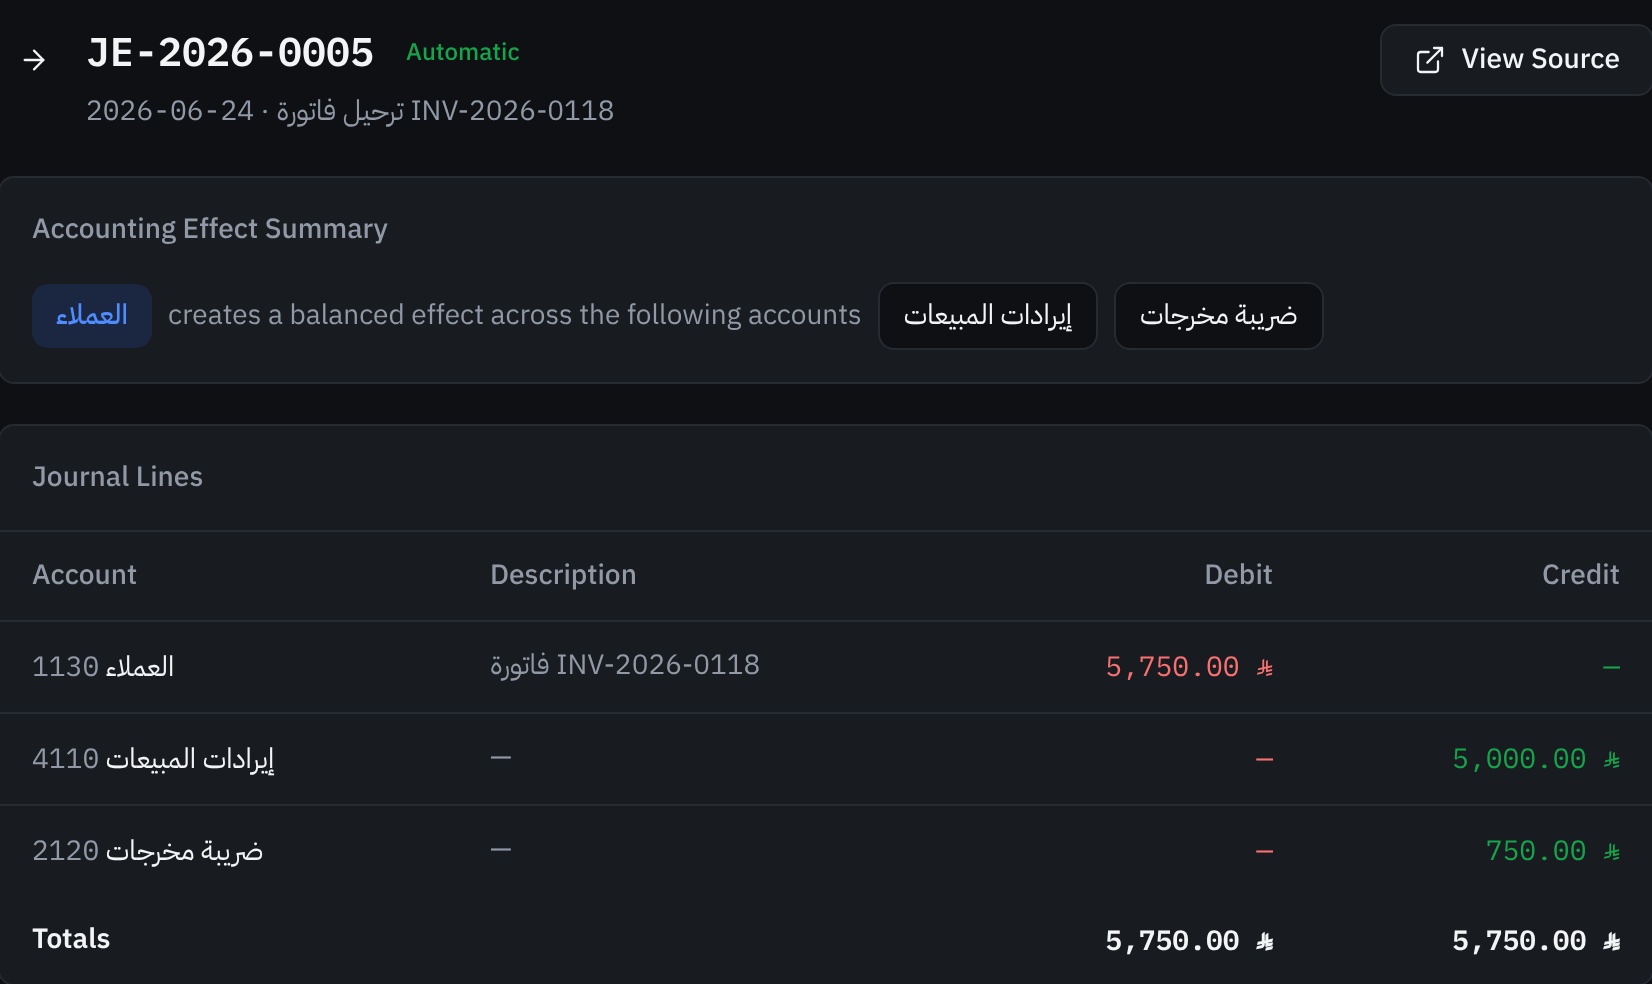
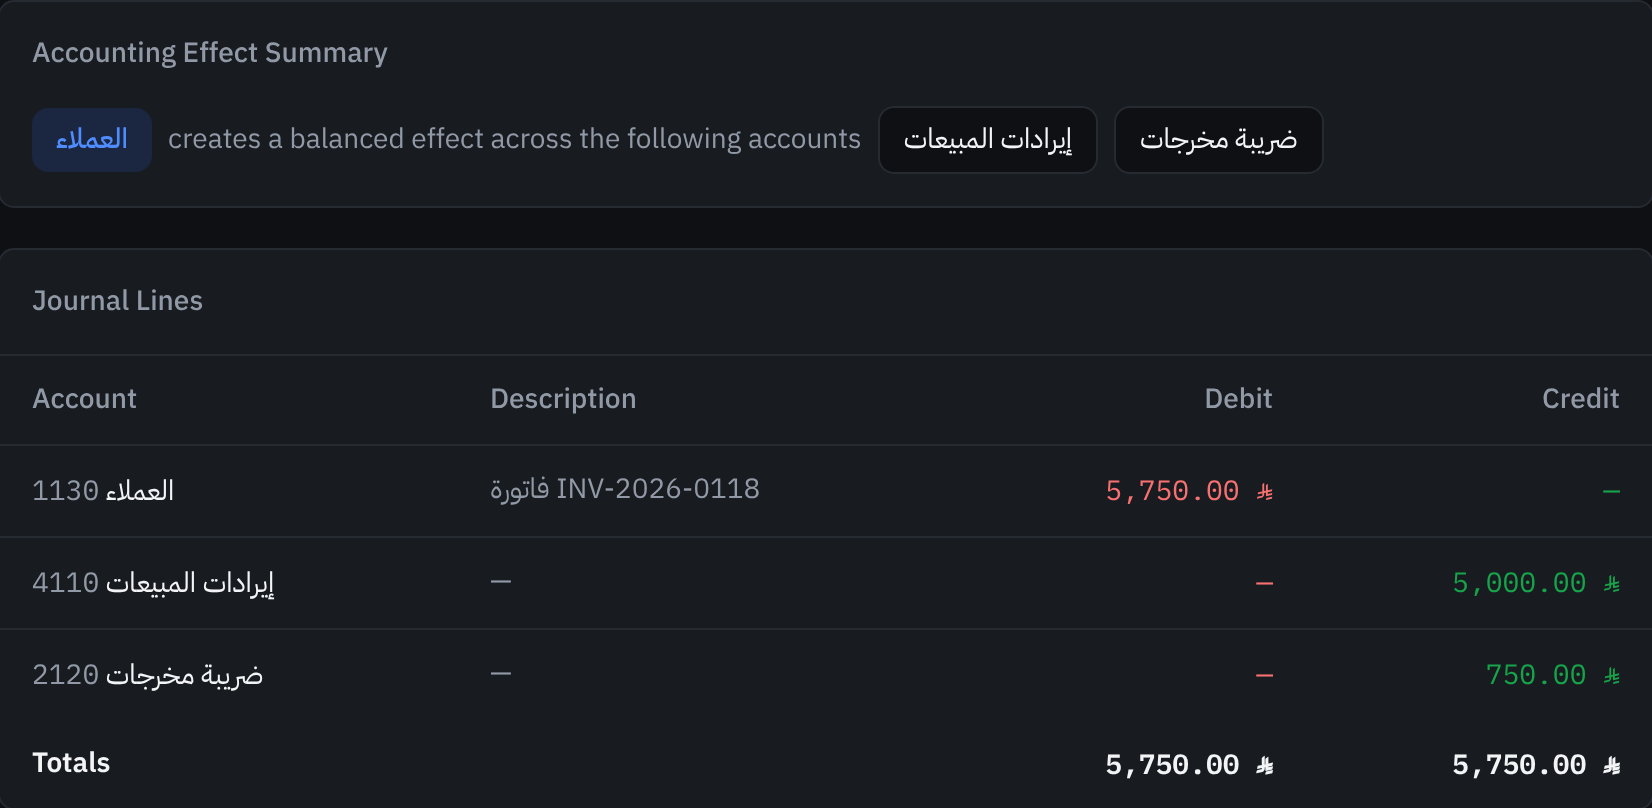
feat(web): landing review fixes: legible per-module crops, entry-only hero, no repeated captures
Hero shows the balanced entry crop (summary and lines, no app chrome); module
tabs use crops of the region they name; the phone sections show different
screens; invoice and entry rows are outlined to join them; nav gets a sign-up
action; small text darkened; security set as a 2x2 grid; HR added to status.

Claude-Session: https://claude.ai/code/session_01PGrToCuxFgSVir6H6hUdMG

diff --git a/web/src/app/page.tsx b/web/src/app/page.tsx
@@ -20,18 +20,19 @@ export async function generateMetadata(): Promise<Metadata> {
 }
 
 const MODULES: { id: string; shot: LandingShotName; prefix: string }[] = [
-  { id: 'sales', shot: 'desk-invoices', prefix: 'm_sales' },
-  { id: 'pos', shot: 'desk-pos', prefix: 'm_pos' },
-  { id: 'purchases', shot: 'desk-purchases', prefix: 'm_purchases' },
-  { id: 'books', shot: 'desk-journal', prefix: 'm_books' },
-  { id: 'reports', shot: 'desk-reports', prefix: 'm_reports' },
+  { id: 'sales', shot: 'mod-sales', prefix: 'm_sales' },
+  { id: 'pos', shot: 'mod-pos', prefix: 'm_pos' },
+  { id: 'purchases', shot: 'mod-purchases', prefix: 'm_purchases' },
+  { id: 'books', shot: 'mod-books', prefix: 'm_books' },
+  { id: 'reports', shot: 'mod-reports', prefix: 'm_reports' },
 ];
 
-const STATUS_ROWS: { key: 'sales' | 'stock' | 'books' | 'zatca' | 'ops'; state: 'ready' | 'partial' | 'building' }[] = [
+const STATUS_ROWS: { key: 'sales' | 'stock' | 'books' | 'zatca' | 'hr' | 'ops'; state: 'ready' | 'partial' | 'building' }[] = [
   { key: 'sales', state: 'ready' },
   { key: 'stock', state: 'ready' },
   { key: 'books', state: 'ready' },
   { key: 'zatca', state: 'partial' },
+  { key: 'hr', state: 'partial' },
   { key: 'ops', state: 'building' },
 ];
 
@@ -74,6 +75,8 @@ export default async function LandingPage() {
         menuLabel={t('nav_menu')}
         loginHref="/login"
         loginLabel={t('cta_login')}
+        registerHref="/register"
+        registerLabel={t('cta_register')}
       />
 
       <main id="main-content" tabIndex={-1} className="outline-none">
@@ -100,8 +103,7 @@ export default async function LandingPage() {
                 sizes="(min-width: 1440px) 794px, (min-width: 960px) 56vw, 100vw"
                 priority
               />
-              <LandingShot name="card-invoice" view="narrow" eager locale={locale} alt={t('mobile_invoice_alt')} sizes="384px" />
-              <LandingShot name="card-entry" view="narrow" eager locale={locale} alt={t('mobile_entry_alt')} sizes="384px" />
+              <LandingShot name="phone-entry" view="narrow" eager locale={locale} alt={t('hero_mobile_alt')} sizes="384px" />
               <figcaption>{t('hero_caption')}</figcaption>
             </figure>
           </div>
@@ -119,24 +121,30 @@ export default async function LandingPage() {
             <div className="lp-flow">
               <div className="lp-flow__pair">
                 <figure className="lp-shot">
-                  <LandingShot
-                    name="strip-invoice"
-                    view="wide"
-                    locale={locale}
-                    alt={t('flow_invoice_alt')}
-                    sizes="(min-width: 1440px) 1312px, 100vw"
-                  />
+                  <div className="lp-strip">
+                    <LandingShot
+                      name="strip-invoice"
+                      view="wide"
+                      locale={locale}
+                      alt={t('flow_invoice_alt')}
+                      sizes="(min-width: 1440px) 1312px, 100vw"
+                    />
+                    <span className="lp-mark lp-mark--invoice" aria-hidden="true" />
+                  </div>
                   <LandingShot name="card-invoice" view="narrow" locale={locale} alt={t('flow_invoice_alt')} sizes="384px" />
                   <figcaption>{t('flow_invoice_caption')}</figcaption>
                 </figure>
                 <figure className="lp-shot">
-                  <LandingShot
-                    name="strip-entry"
-                    view="wide"
-                    locale={locale}
-                    alt={t('flow_entry_alt')}
-                    sizes="(min-width: 1440px) 1312px, 100vw"
-                  />
+                  <div className="lp-strip">
+                    <LandingShot
+                      name="strip-entry"
+                      view="wide"
+                      locale={locale}
+                      alt={t('flow_entry_alt')}
+                      sizes="(min-width: 1440px) 1312px, 100vw"
+                    />
+                    <span className="lp-mark lp-mark--entry" aria-hidden="true" />
+                  </div>
                   <LandingShot name="card-entry" view="narrow" locale={locale} alt={t('flow_entry_alt')} sizes="384px" />
                   <figcaption>{t('flow_entry_caption')}</figcaption>
                 </figure>
@@ -172,10 +180,10 @@ export default async function LandingPage() {
               </figure>
               <div className="lp-mobile__stack">
                 <figure className="lp-shot">
-                  <LandingShot name="card-invoice" locale={locale} alt={t('mobile_invoice_alt')} sizes="(min-width: 960px) 24vw, 70vw" />
+                  <LandingShot name="card-purchase-a" locale={locale} alt={t('mobile_purchase_a_alt')} sizes="(min-width: 960px) 24vw, 70vw" />
                 </figure>
                 <figure className="lp-shot">
-                  <LandingShot name="card-entry" locale={locale} alt={t('mobile_entry_alt')} sizes="(min-width: 960px) 24vw, 70vw" />
+                  <LandingShot name="card-purchase-b" locale={locale} alt={t('mobile_purchase_b_alt')} sizes="(min-width: 960px) 24vw, 70vw" />
                 </figure>
               </div>
             </div>

diff --git a/web/src/app/landing.css b/web/src/app/landing.css
@@ -37,6 +37,7 @@
   --z-sticky-nav: 300;
   --radius-card: 0.5rem;
   --lp-ink-2: color-mix(in oklab, var(--text) 78%, var(--background));
+  --lp-ink-3: color-mix(in oklab, var(--text) 66%, var(--background));
   --lp-outline: color-mix(in oklab, var(--text) 10%, transparent);
 }
 
@@ -302,6 +303,30 @@ html:has(.lp) {
   text-decoration: none;
 }
 
+.lp-nav__register {
+  display: none;
+  align-items: center;
+  min-height: 44px;
+  margin-inline-start: var(--space-xs);
+  padding-inline: var(--space-md);
+  border: 1px solid var(--primary);
+  border-radius: var(--radius-card);
+  color: var(--primary);
+  font-size: var(--text-sm);
+  font-weight: 500;
+  text-decoration: none;
+  white-space: nowrap;
+  transition: background-color var(--dur-micro) linear;
+}
+
+.lp-nav__register:hover {
+  background: var(--primary-soft);
+}
+
+.lp-nav__register:active {
+  transform: translateY(1px);
+}
+
 .lp-nav__menu-btn {
   display: inline-flex;
   align-items: center;
@@ -350,7 +375,8 @@ html:has(.lp) {
 
 @media (min-width: 60rem) {
   .lp-nav__links,
-  .lp-nav__login {
+  .lp-nav__login,
+  .lp-nav__register {
     display: inline-flex;
   }
 
@@ -408,7 +434,7 @@ html:has(.lp) {
 
 .lp-note {
   margin-block-start: var(--space-md);
-  color: var(--muted);
+  color: var(--lp-ink-3);
   font-size: var(--text-sm);
 }
 
@@ -496,7 +522,7 @@ html:has(.lp) {
 }
 
 .lp-shot figcaption {
-  color: var(--muted);
+  color: var(--lp-ink-3);
   font-size: var(--text-sm);
 }
 
@@ -540,6 +566,36 @@ html.dark .lp img.lp-img.lp-theme-dark:not(.lp-narrow) {
 }
 
 /* Flow: one invoice, one entry */
+
+.lp-strip {
+  position: relative;
+}
+
+/* Outlines the invoice row and the entry row that carry the same reference (row positions come from the capture: a 37px head, then 53px rows). */
+.lp-mark {
+  position: absolute;
+  inset-inline: 0;
+  border-radius: var(--space-2xs);
+  outline: 2px solid var(--primary);
+  outline-offset: -2px;
+  pointer-events: none;
+}
+
+.lp-mark--invoice {
+  inset-block-start: 12.25%;
+  height: 17.55%;
+}
+
+.lp-mark--entry {
+  inset-block-start: 29.9%;
+  height: 17.6%;
+}
+
+@media (max-width: 40rem) {
+  .lp-strip {
+    display: none;
+  }
+}
 
 .lp-flow {
   display: grid;
@@ -697,7 +753,7 @@ html.dark .lp img.lp-img.lp-theme-dark:not(.lp-narrow) {
   padding-block: var(--space-sm);
   padding-inline: var(--space-md);
   border-block-end: 1px solid var(--text);
-  color: var(--muted);
+  color: var(--lp-ink-3);
   font-size: var(--text-sm);
   font-weight: 500;
   text-align: start;
@@ -739,7 +795,7 @@ html.dark .lp img.lp-img.lp-theme-dark:not(.lp-narrow) {
 }
 
 .lp-table td.lp-state--building {
-  color: var(--muted);
+  color: var(--lp-ink-3);
   font-weight: 400;
 }
 
@@ -796,18 +852,16 @@ html.dark .lp img.lp-img.lp-theme-dark:not(.lp-narrow) {
 
 .lp-controls__list {
   display: grid;
+  grid-template-columns: repeat(2, minmax(0, 1fr));
+  gap: 0 var(--gap-columns);
 }
 
 .lp-control {
   display: grid;
-  grid-template-columns: minmax(0, 5fr) minmax(0, 7fr);
-  gap: var(--space-sm) var(--gap-columns);
-  padding-block: var(--space-lg);
-  border-block-start: 1px solid var(--border);
-}
-
-.lp-control:last-child {
-  border-block-end: 1px solid var(--border);
+  align-content: start;
+  gap: var(--space-sm);
+  padding-block: var(--space-xl);
+  border-block-start: 1px solid var(--text);
 }
 
 .lp-control p {
@@ -821,8 +875,12 @@ html.dark .lp img.lp-img.lp-theme-dark:not(.lp-narrow) {
 }
 
 @media (max-width: 40rem) {
-  .lp-control {
+  .lp-controls__list {
     grid-template-columns: minmax(0, 1fr);
+  }
+
+  .lp-control {
+    padding-block: var(--space-lg);
   }
 }
 
@@ -902,7 +960,7 @@ html.dark .lp img.lp-img.lp-theme-dark:not(.lp-narrow) {
 
 .lp-footer__line {
   flex-basis: 100%;
-  color: var(--muted);
+  color: var(--lp-ink-3);
   font-size: var(--text-sm);
 }
 

diff --git a/web/src/components/landing/landing-shot.tsx b/web/src/components/landing/landing-shot.tsx
@@ -7,30 +7,38 @@ import Image from 'next/image';
  */
 export type LandingShotName =
   | 'hero-entry'
-  | 'desk-invoices'
-  | 'desk-journal'
-  | 'desk-pos'
-  | 'desk-purchases'
-  | 'desk-reports'
+  | 'mod-sales'
+  | 'mod-pos'
+  | 'mod-purchases'
+  | 'mod-books'
+  | 'mod-reports'
   | 'phone-dashboard'
+  | 'phone-entry'
   | 'strip-invoice'
   | 'strip-entry'
   | 'card-invoice'
-  | 'card-entry';
+  | 'card-entry'
+  | 'card-purchase-a'
+  | 'card-purchase-b';
 
-/** أبعاد الملف الأصلي بالبكسل (2x) لحجز المساحة؛ تتطابق عبر السمتين واللغتين. */
-const SHOT_SIZE: Record<LandingShotName, readonly [number, number]> = {
-  'hero-entry': [1652, 984],
-  'desk-invoices': [2880, 1800],
-  'desk-journal': [2880, 1800],
-  'desk-pos': [2880, 1800],
-  'desk-purchases': [2880, 1800],
-  'desk-reports': [2880, 1800],
+type ShotSize = readonly [number, number];
+
+/** أبعاد الملف الأصلي بالبكسل (2x) لحجز المساحة؛ تتطابق عبر السمتين، وتختلف باللغة حيث يختلف ارتفاع الجدول الملتقط. */
+const SHOT_SIZE: Record<LandingShotName, ShotSize | Record<'ar' | 'en', ShotSize>> = {
+  'hero-entry': [1652, 808],
+  'mod-sales': [2012, 880],
+  'mod-pos': [2360, 1520],
+  'mod-purchases': { ar: [1652, 872], en: [1652, 662] },
+  'mod-books': [1652, 780],
+  'mod-reports': [1752, 1120],
   'phone-dashboard': [780, 1688],
+  'phone-entry': [716, 696],
   'strip-invoice': [2332, 604],
   'strip-entry': [2332, 602],
   'card-invoice': [712, 322],
   'card-entry': [712, 306],
+  'card-purchase-a': [712, 322],
+  'card-purchase-b': [712, 324],
 };
 
 const THEMES = ['light', 'dark'] as const;
@@ -53,7 +61,8 @@ interface LandingShotProps {
 }
 
 export function LandingShot({ name, locale, alt, sizes, priority = false, eager: eagerLoad = false, view }: LandingShotProps) {
-  const [width, height] = SHOT_SIZE[name];
+  const spec = SHOT_SIZE[name];
+  const [width, height] = Array.isArray(spec) ? (spec as ShotSize) : (spec as Record<'ar' | 'en', ShotSize>)[locale === 'en' ? 'en' : 'ar'];
   return (
     <>
       {THEMES.map((theme) => {

diff --git a/web/src/components/landing/landing-nav.tsx b/web/src/components/landing/landing-nav.tsx
@@ -18,10 +18,12 @@ interface LandingNavProps {
   menuLabel: string;
   loginHref: string;
   loginLabel: string;
+  registerHref: string;
+  registerLabel: string;
 }
 
 /** شريط علوي بحافتين: الشعار عند البداية والأدوات عند النهاية، وقائمة منسدلة تحت 60rem. */
-export function LandingNav({ brand, tools, links, brandLabel, navLabel, menuLabel, loginHref, loginLabel }: LandingNavProps) {
+export function LandingNav({ brand, tools, links, brandLabel, navLabel, menuLabel, loginHref, loginLabel, registerHref, registerLabel }: LandingNavProps) {
   const [open, setOpen] = useState(false);
   const panelId = useId();
   const buttonRef = useRef<HTMLButtonElement>(null);
@@ -63,6 +65,9 @@ export function LandingNav({ brand, tools, links, brandLabel, navLabel, menuLabe
           <Link href={loginHref} className="lp-nav__login lp-link">
             {loginLabel}
           </Link>
+          <Link href={registerHref} className="lp-nav__register">
+            {registerLabel}
+          </Link>
           <button
             ref={buttonRef}
             type="button"
@@ -83,6 +88,9 @@ export function LandingNav({ brand, tools, links, brandLabel, navLabel, menuLabe
                 {link.label}
               </a>
             ))}
+            <Link href={registerHref} onClick={() => setOpen(false)}>
+              {registerLabel}
+            </Link>
             <Link href={loginHref} onClick={() => setOpen(false)}>
               {loginLabel}
             </Link>
